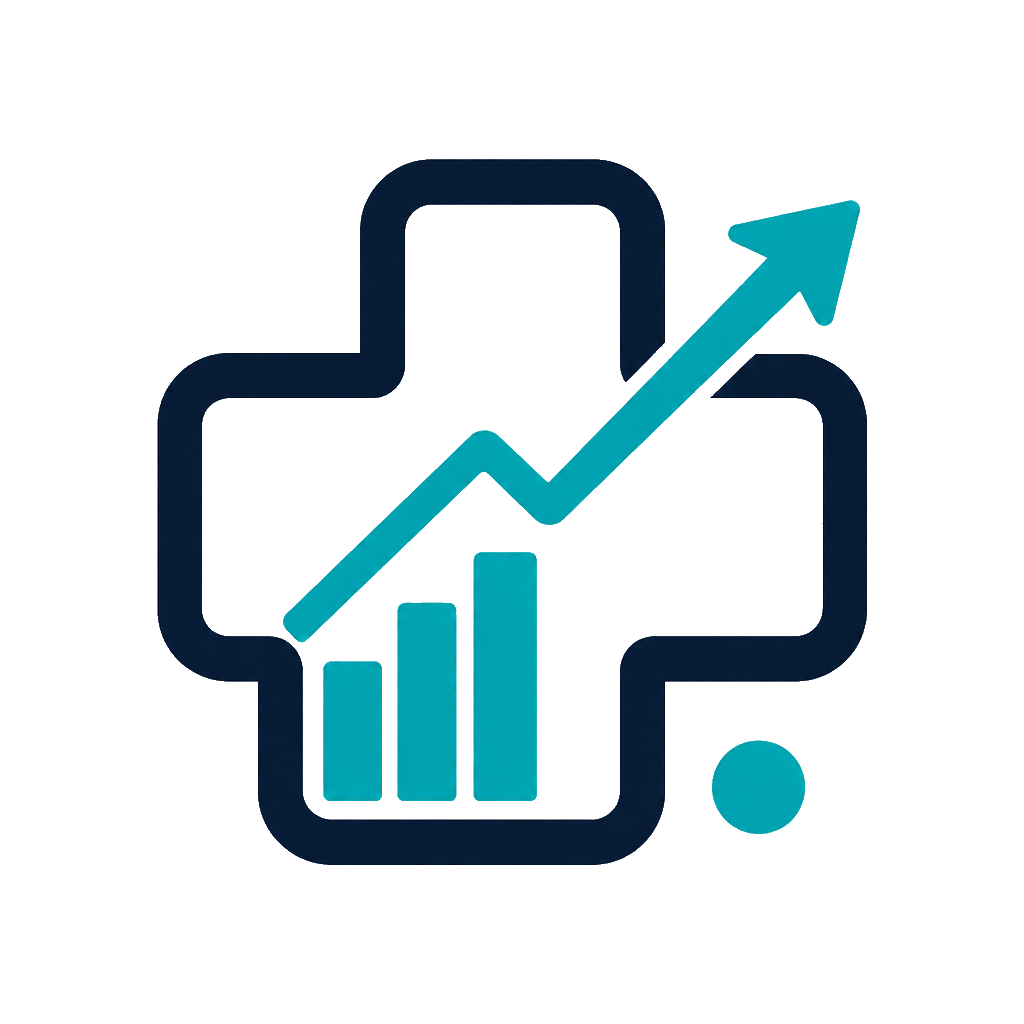
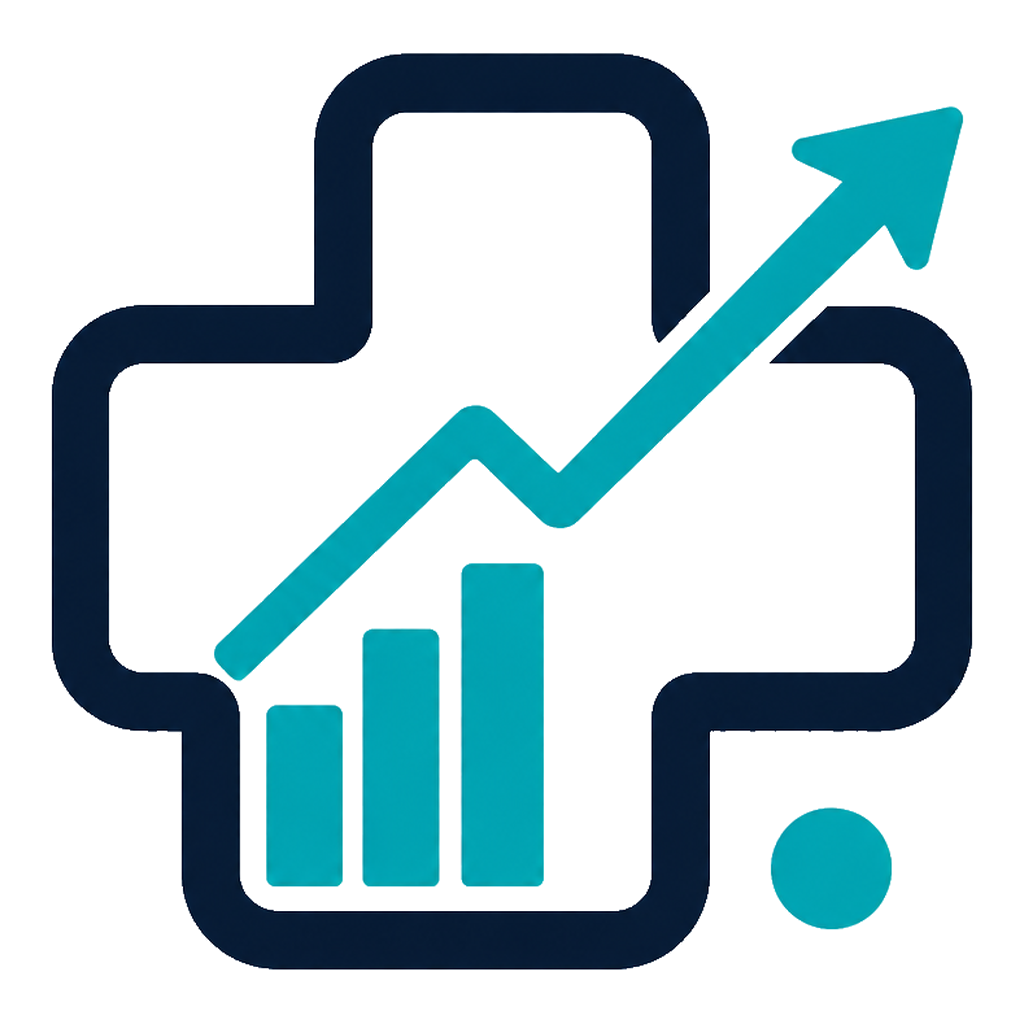
fix(brand): pure white SME Clinic assets and app home mark
Reprocess logo/mark to strip AI checkerboard fringe, keep solid white
backgrounds, repack multi-size favicon, and surface the clinic mark on
/app plus metadata title.

diff --git a/src/app/app/page.tsx b/src/app/app/page.tsx
@@ -1,5 +1,6 @@
 "use client";
 
+import Image from "next/image";
 import Link from "next/link";
 import { useEffect, useState } from "react";
 import { Bot, ChevronRight, ShieldCheck } from "lucide-react";
@@ -24,11 +25,22 @@ export default function HomePage() {
   return (
     <main className="px-4 pb-6 pt-5">
       <div className="mb-5 flex items-center justify-between">
-        <div>
-          <p className="text-xs text-text-muted">
-            {name ? `你好，${name}` : "你好"}
-          </p>
-          <h1 className="text-xl font-bold text-navy-900">SME LoanFlow</h1>
+        <div className="flex min-w-0 items-center gap-2.5">
+          <Image
+            src="/brand/sme-clinic-mark.png"
+            alt=""
+            width={40}
+            height={40}
+            className="size-10 shrink-0 rounded-md bg-white"
+          />
+          <div className="min-w-0">
+            <p className="text-xs text-text-muted">
+              {name ? `你好，${name}` : "你好"}
+            </p>
+            <h1 className="truncate text-xl font-bold text-navy-900">
+              SME Clinic
+            </h1>
+          </div>
         </div>
         <Link
           href="/app/notifications"

diff --git a/src/app/layout.tsx b/src/app/layout.tsx
@@ -14,10 +14,17 @@ const geistMono = Geist_Mono({
 });
 
 export const metadata: Metadata = {
-  title: "SME LoanFlow｜中小企貸款智能申請",
+  title: "SME Clinic｜企業妙手診所",
   description:
     "協助香港中小企以數碼方式完成貸款資料提交、文件檢查及初步資格評估。",
-  applicationName: "SME LoanFlow",
+  applicationName: "SME Clinic",
+  icons: {
+    icon: [
+      { url: "/favicon.ico", sizes: "48x48" },
+      { url: "/icon.png", type: "image/png", sizes: "512x512" },
+    ],
+    apple: [{ url: "/apple-icon.png", sizes: "180x180", type: "image/png" }],
+  },
 };
 
 export default function RootLayout({

diff --git a/src/app/page.tsx b/src/app/page.tsx
@@ -12,12 +12,12 @@ export default function SplashPage() {
             src="/brand/sme-clinic-logo.png"
             alt="SME Clinic 企業妙手診所"
             width={1200}
-            height={479}
+            height={458}
             priority
             className="mx-auto h-auto w-full bg-white"
           />
         </div>
-        <h1 className="sr-only">SME LoanFlow</h1>
+        <h1 className="sr-only">SME Clinic 企業妙手診所</h1>
         <p className="animate-fade-up mt-1 max-w-xs text-sm leading-relaxed text-text-secondary [animation-delay:80ms]">
           中小企融資，由準備文件開始變得更簡單
         </p>

diff --git a/src/app/auth/login/page.tsx b/src/app/auth/login/page.tsx
@@ -214,7 +214,7 @@ export default function LoginPage() {
 
   return (
     <MobileShell>
-      <PageHeader title="登入／註冊" subtitle="SME LoanFlow" backHref="/" />
+      <PageHeader title="登入／註冊" subtitle="SME Clinic" backHref="/" />
       <main className="flex flex-1 flex-col gap-5 px-4 py-5 pb-28">
         <div className="grid grid-cols-2 rounded-xl bg-surface-2 p-1">
           <button
